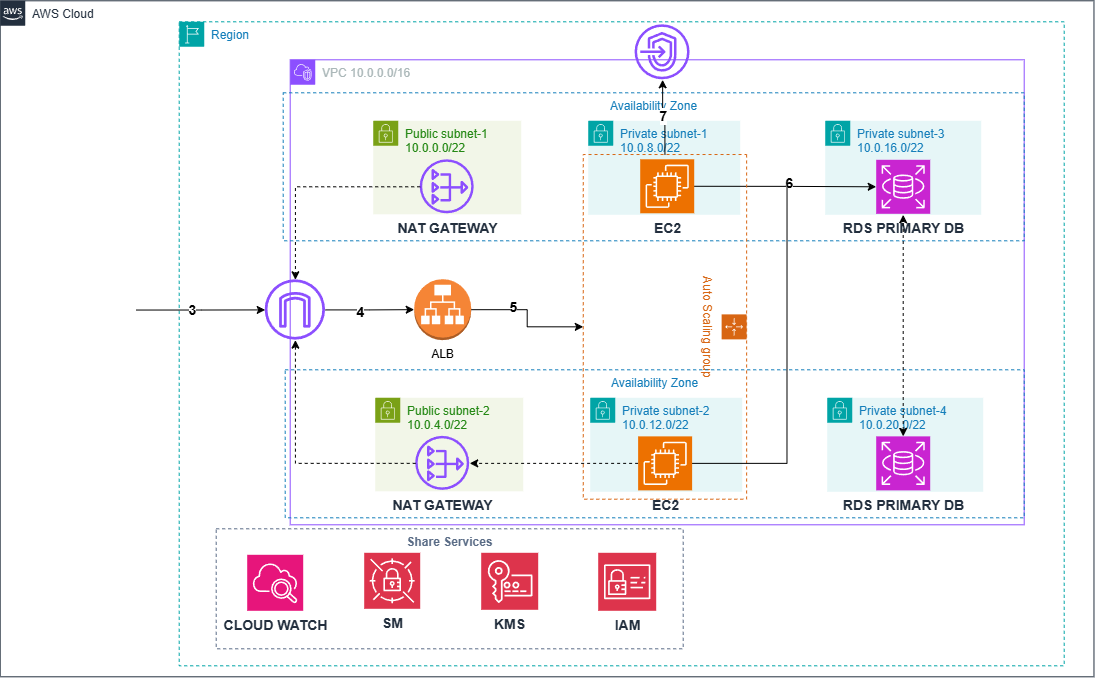
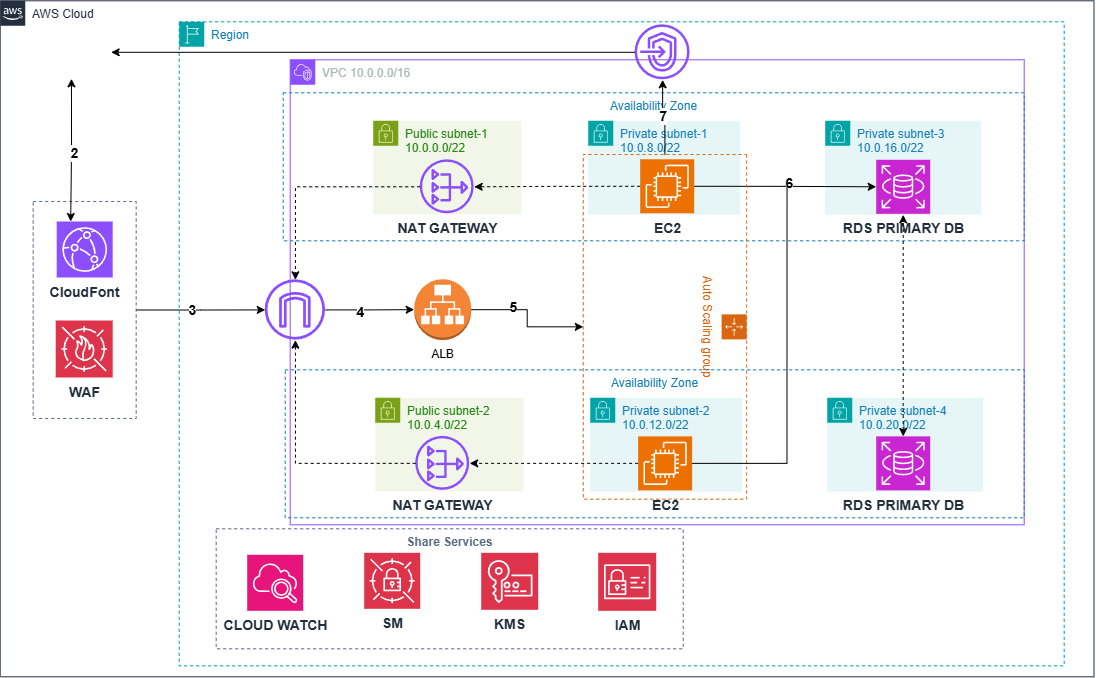
update 5.3

Changed region(s): [[0.031, 0.3097, 0.1241, 0.4336], [0.031, 0.4646, 0.1241, 0.5885], [0.0931, 0.0619, 0.1241, 0.0929]]

diff --git a/content/5-Workshop/5.3-vpc-and-more/_index.vi.md b/content/5-Workshop/5.3-vpc-and-more/_index.vi.md
@@ -12,7 +12,7 @@ Trong phần này ta sẽ thiết lập VPC và các tài nguyên/ tính năng c
 
 ## Sơ đồ kiến trúc VPC
 
-![Kiến trúc VPC](/images/5-Workshop/5.3-vpc/vpc_archi1.png)
+![Kiến trúc VPC](/images/5-Workshop/5.3-vpc/vpc_archi2.png)
 
 ## Sơ đồ kiến trúc Security Group
 

diff --git a/content/5-Workshop/5.3-vpc-and-more/5.3.1-create-vpc-and-more/_index.vi.md b/content/5-Workshop/5.3-vpc-and-more/5.3.1-create-vpc-and-more/_index.vi.md
@@ -8,7 +8,7 @@ pre : " <b> 5.3.1 </b> "
 
 ---
 
-![Kiến trúc VPC](/images/5-Workshop/5.3-vpc/VPC_ARCHI.png)
+![Kiến trúc VPC](/images/5-Workshop/5.3-vpc/vpc_archi3.png)
 
 #### Truy cập **VPC Console** và chọn **Create VPC**
 
